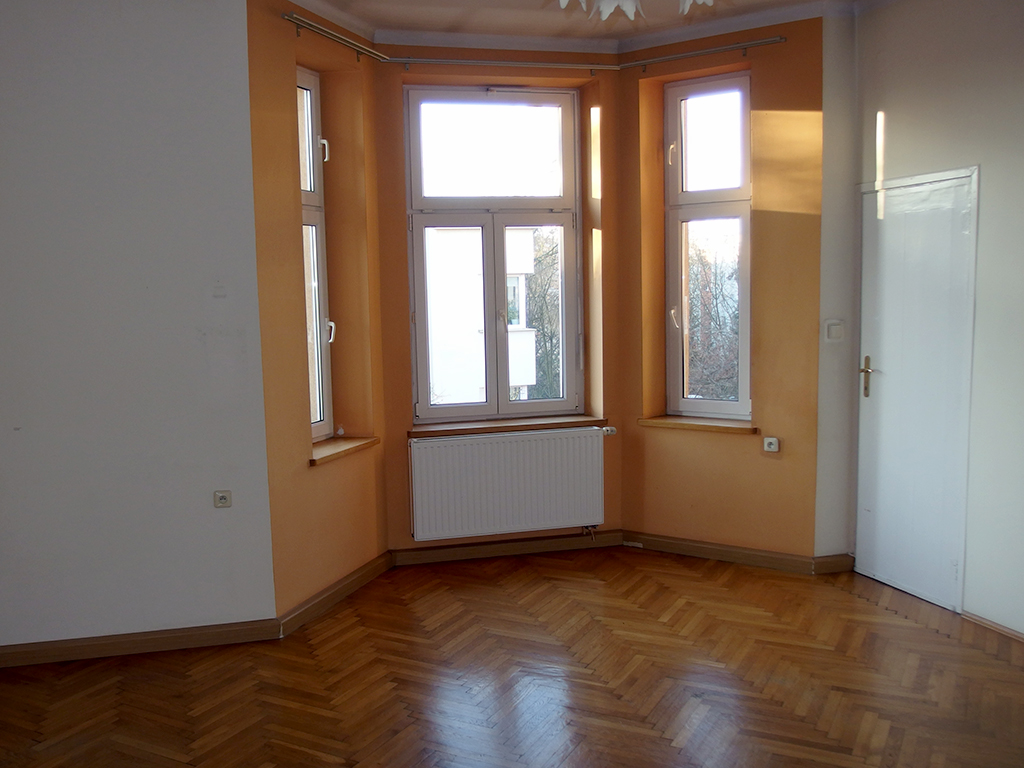
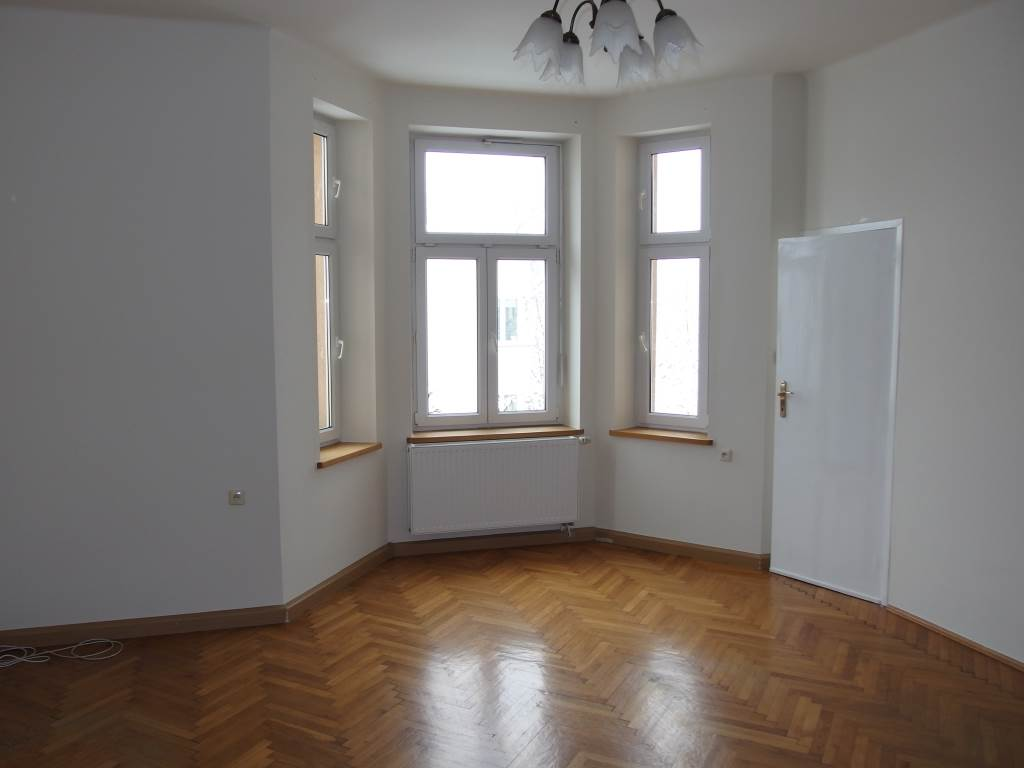
Zdjęcia po malowaniu

diff --git a/index.html b/index.html
@@ -138,6 +138,10 @@
           <div class="panel-body"><p>Pokój narożny</p></div>
         </div><!--/panel--></div><!--/col-->
         <div class="col-sm-4 col-xs-6"><div class="panel panel-default">
+          <div class="panel-thumbnail"><a href="assets/pokoj_3_2.jpg" data-lightbox="photos" data-title="Pokój narożny"><img src="assets/pokoj_3_2.jpg" class="img-responsive"></a></div>
+          <div class="panel-body"><p>Pokój narożny</p></div>
+        </div><!--/panel--></div><!--/col-->
+        <div class="col-sm-4 col-xs-6"><div class="panel panel-default">
           <div class="panel-thumbnail"><a href="assets/pokoj_2_1.jpg" data-lightbox="photos" data-title="Pokój środkowy"><img src="assets/pokoj_2_1.jpg" class="img-responsive"></a></div>
           <div class="panel-body"><p>Pokój środkowy</p></div>
         </div><!--/panel--></div><!--/col-->
@@ -145,8 +149,20 @@
           <div class="panel-thumbnail"><a href="assets/pokoj_2_2.jpg" data-lightbox="photos" data-title="Pokój środkowy"><img src="assets/pokoj_2_2.jpg" class="img-responsive"></a></div>
           <div class="panel-body"><p>Pokój środkowy</p></div>
         </div><!--/panel--></div><!--/col-->
+       <div class="col-sm-4 col-xs-6"><div class="panel panel-default">
+          <div class="panel-thumbnail"><a href="assets/pokoj_4_1.jpg" data-lightbox="photos" data-title="Pokój zachodni"><img src="assets/pokoj_4_1.jpg" class="img-responsive"></a></div>
+          <div class="panel-body"><p>Pokój zachodni</p></div>
+        </div><!--/panel--></div><!--/col-->
+        <div class="col-sm-4 col-xs-6"><div class="panel panel-default">
+          <div class="panel-thumbnail"><a href="assets/pokoj_4_2.jpg" data-lightbox="photos" data-title="Pokój zachodni"><img src="assets/pokoj_4_2.jpg" class="img-responsive"></a></div>
+          <div class="panel-body"><p>Pokój zachodni</p></div>
+        </div><!--/panel--></div><!--/col-->
         <div class="col-sm-4 col-xs-6"><div class="panel panel-default">
           <div class="panel-thumbnail"><a href="assets/przedpokoj_1.jpg" data-lightbox="photos" data-title="Przedpokój"><img src="assets/przedpokoj_1.jpg" class="img-responsive"></a></div>
+          <div class="panel-body"><p>Przedpokój</p></div>
+        </div><!--/panel--></div><!--/col-->
+        <div class="col-sm-4 col-xs-6"><div class="panel panel-default">
+          <div class="panel-thumbnail"><a href="assets/przedpokoj_2.jpg" data-lightbox="photos" data-title="Przedpokój"><img src="assets/przedpokoj_2.jpg" class="img-responsive"></a></div>
           <div class="panel-body"><p>Przedpokój</p></div>
         </div><!--/panel--></div><!--/col-->
         <div class="col-sm-4 col-xs-6"><div class="panel panel-default">
